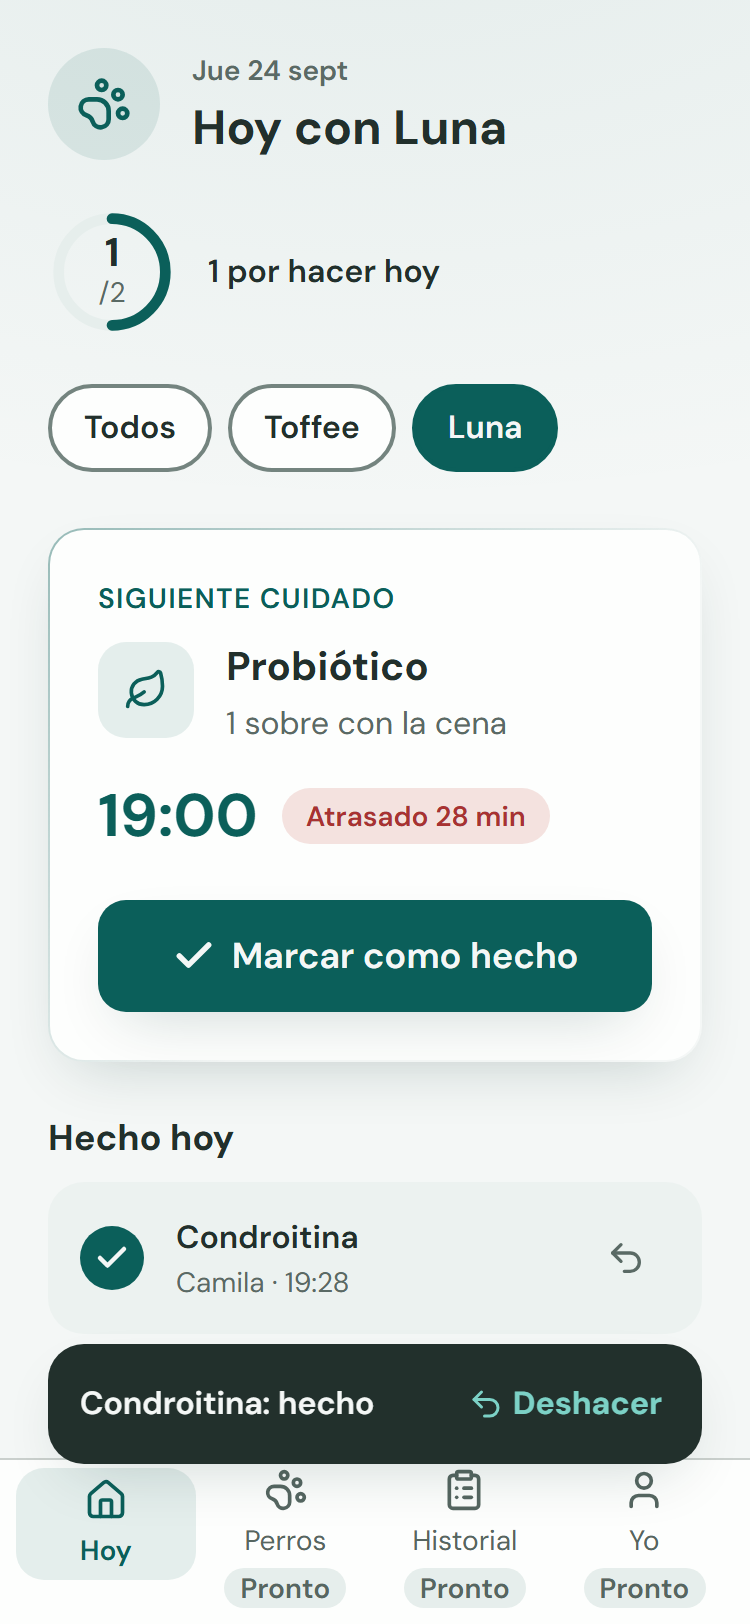
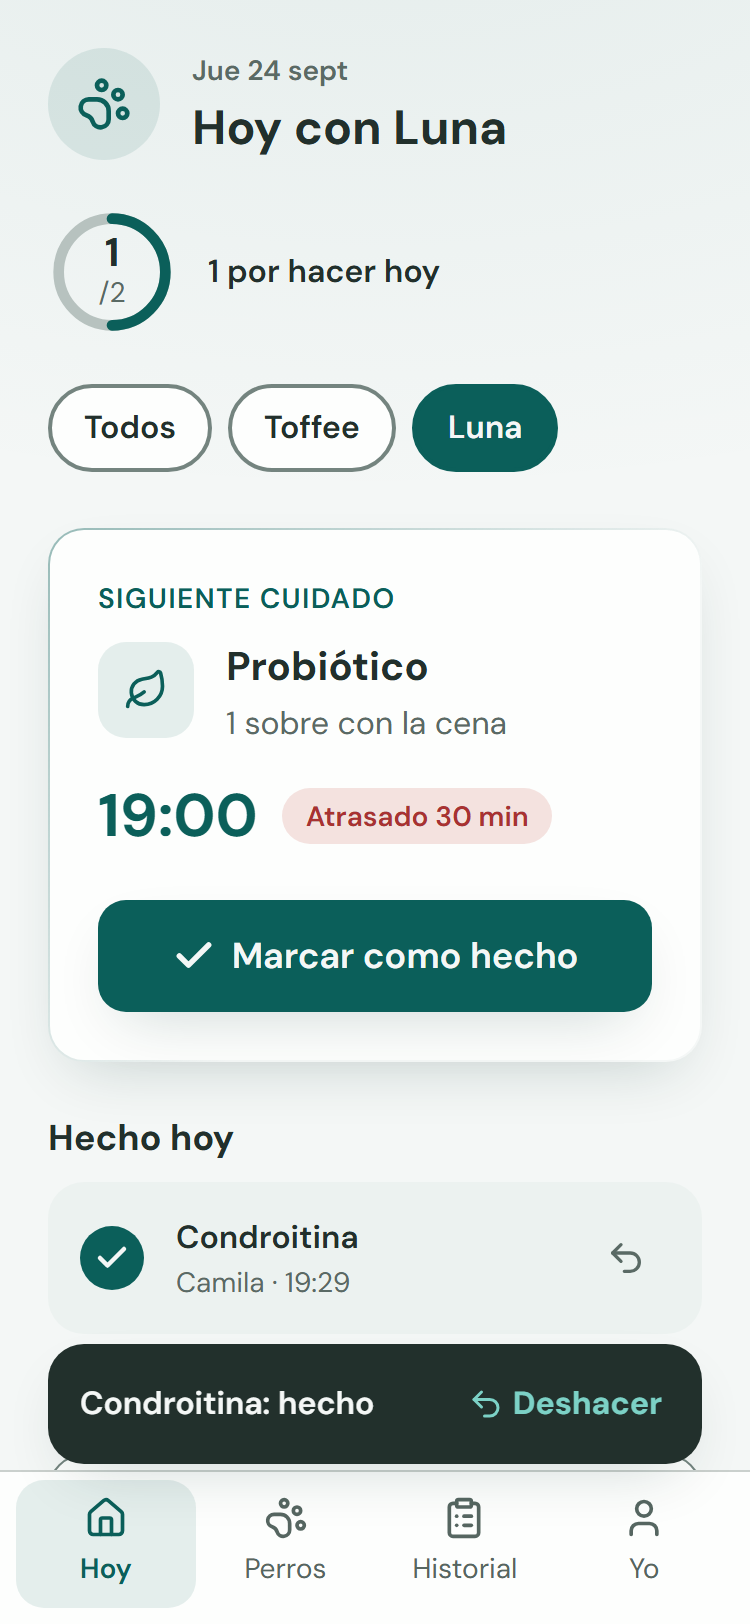
Hoy: pulido tras revisión 3 y registro en ESTADO

diff --git a/components/app/Hoy.tsx b/components/app/Hoy.tsx
@@ -6,7 +6,7 @@
 //   niveles: display 3xl (título) · title xl (cuidado) · body base · label sm
 //   acento_en: hora clave, botón principal, anillo de progreso, estado activo del menú
 //   baseline: entrada escalonada · anillo que se llena · conteo del progreso · tap con escala · celebración sobria
-//   dispositivo_ownable: foto del perro con marco duotone de marca en la cabecera del perro activo
+//   dispositivo_ownable: foto del perro a color con marco de hairline degradado en la cabecera (decisión del usuario 2026-09-24)
 //   estados: cargando (esqueleto) · vacío · al día (éxito) · sin conexión · deshabilitado (menú «Pronto»)
 
 import { useEffect, useState, useSyncExternalStore } from 'react';
@@ -111,7 +111,7 @@ function Anillo({ hechos, total }: { hechos: number; total: number }) {
   return (
     <div className="relative size-16 shrink-0" role="img" aria-label={`${hechos} de ${total} cuidados hechos hoy`}>
       <svg viewBox="0 0 96 96" className="size-16 -rotate-90">
-        <circle cx="48" cy="48" r="40" fill="none" strokeWidth="8" className="stroke-[var(--surface-2)]" />
+        <circle cx="48" cy="48" r="40" fill="none" strokeWidth="8" className="stroke-[color-mix(in_oklab,var(--border-ui)_40%,var(--surface-2))]" />
         <motion.circle
           cx="48"
           cy="48"
@@ -215,9 +215,9 @@ function FilaPendiente({ fila, varios, onHecho, i }: { fila: FilaHoy; varios: bo
             {varios ? `${fila.perro.nombre} · ` : ''}
             {fila.cuidado.detalle}
           </span>
-          <span className="mt-1 flex items-center gap-2">
+          <span className="mt-1 flex flex-wrap items-center gap-x-2 gap-y-1">
             <span className="text-base font-bold tabular-nums text-[var(--accent)]">{fila.cuidado.hora}</span>
-            {t !== 'normal' && <span className={`rounded-full px-2 py-0.5 text-sm font-semibold ${tono[t]}`}>{texto}</span>}
+            {t !== 'normal' && <span className={`whitespace-nowrap rounded-full px-2 py-0.5 text-sm font-semibold ${tono[t]}`}>{texto}</span>}
           </span>
         </span>
         <span aria-hidden="true" className="inline-flex size-8 shrink-0 items-center justify-center rounded-full border-2 border-[var(--border-ui)]" />
@@ -269,7 +269,7 @@ function FilaFutura({ fila, varios, i }: { fila: FilaProxima; varios: boolean; i
           {varios ? `${fila.perro.nombre} · ` : ''}
           {fila.cuidado.detalle}
         </span>
-        <span className={`mt-1 inline-block rounded-full px-2 py-0.5 text-sm font-semibold ${tono[t]}`}>{texto}</span>
+        <span className={`mt-1 inline-block whitespace-nowrap rounded-full px-2 py-0.5 text-sm font-semibold ${tono[t]}`}>{texto}</span>
       </span>
     </motion.li>
   );
@@ -285,17 +285,17 @@ function Menu() {
     <nav aria-label="Secciones" className="sticky bottom-0 z-10 border-t border-[color-mix(in_oklab,var(--text-tertiary)_30%,transparent)] bg-[var(--surface)] px-2 pb-2 pt-1">
       <ul className="grid grid-cols-4">
         <li>
-          <span aria-current="page" className="flex min-h-14 flex-col items-center justify-center gap-1 rounded-[var(--radius-button)] bg-[var(--chip-bg)] text-sm font-semibold text-[var(--accent)]">
+          <span aria-current="page" className="flex min-h-16 flex-col items-center justify-start gap-1 rounded-[var(--radius-button)] bg-[var(--chip-bg)] pt-2 text-sm font-semibold text-[var(--accent)]">
             <Home size={22} aria-hidden="true" />
             Hoy
           </span>
         </li>
         {pronto.map(({ icono: Icono, texto }) => (
           <li key={texto}>
-            <span aria-disabled="true" className="flex min-h-14 flex-col items-center justify-center gap-1 text-sm text-[var(--text-tertiary)]">
+            <span aria-disabled="true" className="flex min-h-16 flex-col items-center justify-start gap-1 pt-2 text-sm text-[var(--text-tertiary)]">
               <Icono size={22} aria-hidden="true" />
               {texto}
-              <span className="rounded-full bg-[var(--surface-2)] px-2 text-sm font-semibold">Pronto</span>
+              <span className="sr-only">Pronto</span>
             </span>
           </li>
         ))}
@@ -381,7 +381,7 @@ export default function Hoy() {
             Sin conexión: tus marcas se guardan en este aparato.
           </p>
         )}
-        <main className="flex flex-1 flex-col gap-6 px-6 pb-8 pt-6">
+        <main className="flex flex-1 flex-col gap-6 px-6 pb-24 pt-6">
           <header className="flex items-start justify-between gap-4">
             <div className="flex min-w-0 items-center gap-4">
               <Avatar perro={activo ?? e.perros[0]} />
@@ -418,11 +418,11 @@ export default function Hoy() {
               <div>
                 <p className="text-xl font-bold leading-tight">Todo al día{activo ? ` con ${activo.nombre}` : ''}</p>
                 <p className="mt-1 text-base text-[var(--text-secondary)]">
-                  {mana.cuantos > 0 ? `Mañana te esperan ${mana.cuantos} cuidados, el primero a las ${mana.primera}.` : 'No queda nada por hoy.'}
+                  {mana.cuantos > 0 ? `Mañana: ${mana.cuantos} cuidados, desde las ${mana.primera}.` : 'No queda nada por hoy.'}
                 </p>
                 {futuros[0] && (
                   <p className="mt-1 text-base text-[var(--text-secondary)]">
-                    Y ojo con {futuros[0].cuidado.nombre.toLowerCase()}: {textoDias(futuros[0].dias).texto.toLowerCase()}.
+                    Ojo: {futuros[0].cuidado.nombre.toLowerCase()}, {textoDias(futuros[0].dias).texto.toLowerCase()}.
                   </p>
                 )}
               </div>
@@ -441,7 +441,7 @@ export default function Hoy() {
 
           {resto.length > 0 && (
             <section aria-label="Pendiente hoy">
-              <h2 className="mb-2 text-lg font-bold">Después hoy</h2>
+              <h2 className="mb-2 text-lg font-bold">Siguientes de hoy</h2>
               <ul className="flex flex-col gap-2">
                 {resto.map((f, i) => (
                   <FilaPendiente key={f.cuidado.id} fila={f} varios={varios} i={i + 2} onHecho={() => hacer(f.cuidado.id, f.cuidado.nombre)} />

diff --git a/docs/revisiones/hoy-veredicto.md b/docs/revisiones/hoy-veredicto.md
@@ -1,10 +1,11 @@
-# VEREDICTO revisor-visual — Hoy (ronda 2)
-Fecha: 2026-09-24 13:00
+# VEREDICTO revisor-visual — Hoy (ronda 3)
+Fecha: 2026-09-24 19:40
 Screenshot: docs/revisiones/hoy-375.png
-Usabilidad: 28/40
-Craft: 13/20
+Usabilidad: 29/40
+Craft: 14/20
 Copy (si vende): N-A
 Fidelidad (si hubo referencia): N-A
 Veredicto: NO LISTA
-Top defectos: 1) Filas de "Después hoy" siguen con texto partido: "Luna · 1 sobre con la cena" cae a 5 líneas a 375px y a 7 líneas a 360px (hoy-360.png, "· 1" huérfano), y "Reponer Apoquel" salta a 3 líneas; la columna hora+píldora más el círculo de 32px comen el ancho. Fix: mover hora y píldora a una segunda línea bajo el título, o quitar el círculo (la fila entera ya es botón), y darle al detalle el ancho completo. 2) Cabecera apretada: la fecha se parte en 2 líneas ("Jueves, 24 de / septiembre"), el título en 2 y el anillo 80px compite con el avatar de 56px; son 4 tamaños de texto (30/24/20/18) más 14-16. Fix: fecha corta ("Jue 24 sep") en una línea, título en 1 línea o anillo más chico. 3) Dispositivo ownable a medias: la foto del perro lleva borde degradado pero sin el duotone que declara FICHA-ARTE/SPEC; el resto (DM Sans + teal + chips) sigue siendo intercambiable. Además "Todo al día" usa spring de escala pese a que la ficha dice "sin springs ni celebraciones". Fix: aplicar .foto-duotone o corregir la ficha; alinear el motion con la ficha; sumar racha o continuidad visible. 4) Sin estado de error al guardar (marcarHecho/deshacer no manejan fallo; solo hay aviso de sin conexión) y el toast Deshacer aparece sin animación de entrada/salida, tapa filas y desaparece a los 6 s sin aviso. Fix: try/catch con mensaje qué pasó + reintentar; animar entrada/salida del toast. 5) Menú: Perros/Historial/Yo ahora dicen "Pronto" pero con opacity 60% y texto pequeño el contraste queda bajo AA y ocupan ~72px de alto; sigue pareciendo pestañas. Fix: subir contraste del texto (sin opacity global) y reducir la altura del menú.
-Verificación de ronda 1: (1) ownable: PARCIAL; (2) loop de retorno: PARCIAL (toast Deshacer, "Hecho hoy", vista de mañana y vacío ok; sin racha ni animación de salida); (3) deshacer donde ocurre: CORREGIDO; (4) filas desalineadas/texto partido: NO CORREGIDO (chip de ícono en pendientes sí agregado); (5) menú "Pronto" y estados de error: PARCIAL (etiqueta añadida; sin error de guardado).
+Top defectos: 1) A 360px (hoy-360.png) la píldora "Atrasado 28 min" de la fila Probiótico se parte en 2 líneas dentro de la píldora; falta whitespace-nowrap y/o pasar hora+píldora a flex-wrap. 2) Menú inferior desalineado: en la pestaña activa "Hoy" el ícono y el label quedan más abajo (label y=1552) que en las otras (y=1540) porque las otras tienen un chip "Pronto" que empuja el contenido; además el menú sigue ~72px de alto con 3 chips "Pronto" repetidos. Fix: alinear todos con items-start/altura fija y mostrar "Pronto" solo como texto de un línea o al tocar. 3) Identidad ownable débil: el marco con hairline degradado en la foto es casi invisible a 56px y la campana del logo no aparece en la pantalla; el kit (DM Sans + teal + chips) sigue siendo intercambiable. Fix: campana como marca en la cabecera/anillo y hairline visible en la tarjeta héroe. Además el comentario SPEC de Hoy.tsx aún dice "marco duotone" (stale). 4) Etiquetado incoherente: "Después hoy" contiene ítems ya "Atrasado 28 min", y "Próximamente" vs "Pronto" del menú confunden; el toast Deshacer tapa la fila siguiente (hoy-hecho.png) y desaparece a los 6 s. Fix: "Atrasados" como grupo propio o "Siguientes"; dar padding-bottom al main para que el toast no tape contenido. 5) Anillo en 0 (hoy-onboarding.png) casi invisible: pista --surface-2 sobre fondo tinte, sin contraste 3:1; y "Todo al día" ocupa 5 líneas de texto (hoy-aldia.png, >4 por bloque). Fix: pista más oscura y recortar copy a 2 líneas.
+Verificación ronda 2: (1) texto partido en filas: CORREGIDO a 375 (Probiótico en 3 líneas limpias), REGRESIÓN en 360 (píldora partida); (2) cabecera: CORREGIDO (fecha corta y título en 1 línea, anillo 64px); (3) duotone/spring: CORREGIDO por decisión de ficha (color natural, escala 0.6→1 con ease-out, sin spring) — ownable sigue PARCIAL; (4) error de guardado y toast: CORREGIDO (banner con qué pasó + Reintentar; toast animado con AnimatePresence); (5) menú: PARCIAL (contraste mejor, sin opacity global; altura y desalineación persisten).
+Verificaciones en código: baseline de movimiento presentes (stagger, anillo pathLength + conteo, tap scale, toast animado, MotionConfig reducedMotion="user"); sin transición entre tabs (menú "Pronto"); CTA vivo (h-14, ancho completo, active:scale, nunca disabled). Flexibilidad/atajos: solo defaults y filtro por perro, sin atajos.
